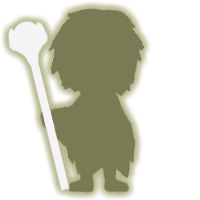
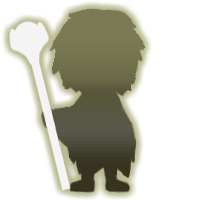
キャラクター３，４の画像を追加

diff --git a/Assets/Textures/Script/CharacterSelect2.cs b/Assets/Textures/Script/CharacterSelect2.cs
@@ -4,7 +4,7 @@ using UnityEngine;
 using UnityEngine.SceneManagement;
 
 
-public class CharacterSelect : MonoBehaviour
+public class CharacterSelect2 : MonoBehaviour
 {
     [SerializeField] GameObject Panel1;
     [SerializeField] GameObject Panel2;
@@ -18,16 +18,16 @@ public class CharacterSelect : MonoBehaviour
     // Update is called once per frame
     void Update()
     {
-        if (Input.GetButtonDown("Button_A1"))
+        if (Input.GetButtonDown("Button_A2"))
         {
             if (Panel1.activeSelf)
             {
-                DataManager.Character = 1;
+                DataManager.Character = 3;
             }
 
             else if (Panel2.activeSelf)
             {
-                DataManager.Character = 2;
+                DataManager.Character = 4;
             }
         }
     }

diff --git a/Assets/Textures/Script/PanelSwitch2.cs b/Assets/Textures/Script/PanelSwitch2.cs
@@ -34,9 +34,9 @@ public class PanelSwitch2 : MonoBehaviour
                 SoundManager.Instance.PlaySE(SE.OKButton);
             }
 
-            if (Player_Number != 1)
+            if (Player_Number != 3)
             {
-                Player_Number = 1;
+                Player_Number = 3;
 
             }
         }
@@ -56,8 +56,8 @@ public class PanelSwitch2 : MonoBehaviour
             //    Panel3.SetActive(true);
             //}
 
-            if (Player_Number != 2)
-                Player_Number = 2;
+            if (Player_Number != 4)
+                Player_Number = 4;
         }
 
         //else if (Panel3.activeSelf)

diff --git a/Assets/Battle/Player/Scripts/Set_Image.cs b/Assets/Battle/Player/Scripts/Set_Image.cs
@@ -23,12 +23,12 @@ public class Set_Image : MonoBehaviour
         }
         else if (search_character_number.GetComponent<Player_Manager_L>().Character == 3)
         {
-            sprite = Resources.Load<Sprite>("Chara1");
+            sprite = Resources.Load<Sprite>("Chara3");
             image.sprite = sprite;
         }
         else if (search_character_number.GetComponent<Player_Manager_L>().Character == 4)
         {
-            sprite = Resources.Load<Sprite>("Chara2");
+            sprite = Resources.Load<Sprite>("Chara4");
             image.sprite = sprite;
         }
     }

diff --git a/Assets/Battle/Player/Scripts/Player_Manager_L.cs b/Assets/Battle/Player/Scripts/Player_Manager_L.cs
@@ -44,10 +44,10 @@ public class Player_Manager_L : MonoBehaviour
 
     private void Awake()
     {
-        //if (gameObject.CompareTag("Player_L1"))
-        //    Character = PanelSwitch.getA();
-        //else if (gameObject.CompareTag("Player_L2"))
-        //    Character = PanelSwitch2.getB();
+        if (gameObject.CompareTag("Player_L1"))
+            Character = PanelSwitch.getA();
+        else if (gameObject.CompareTag("Player_L2"))
+            Character = PanelSwitch2.getB();
     }
     void Start()
     {

diff --git a/Assets/Battle/Bullet/Scripts/C2/Reflect/Shot_Reflect.cs b/Assets/Battle/Bullet/Scripts/C2/Reflect/Shot_Reflect.cs
@@ -49,10 +49,10 @@ public class Shot_Reflect : Shot_Common
             {
                 Destroy(this.GetComponent<CircleCollider2D>());
                 Destroy(this.gameObject);
-            }
-            SoundManager.Instance.PlaySE(SE.Knife);
+            } 
             cnt++;
         }
+        SoundManager.Instance.PlaySE(SE.Knife);
     }
 
 //--------------------------------------------------------------------------------------
